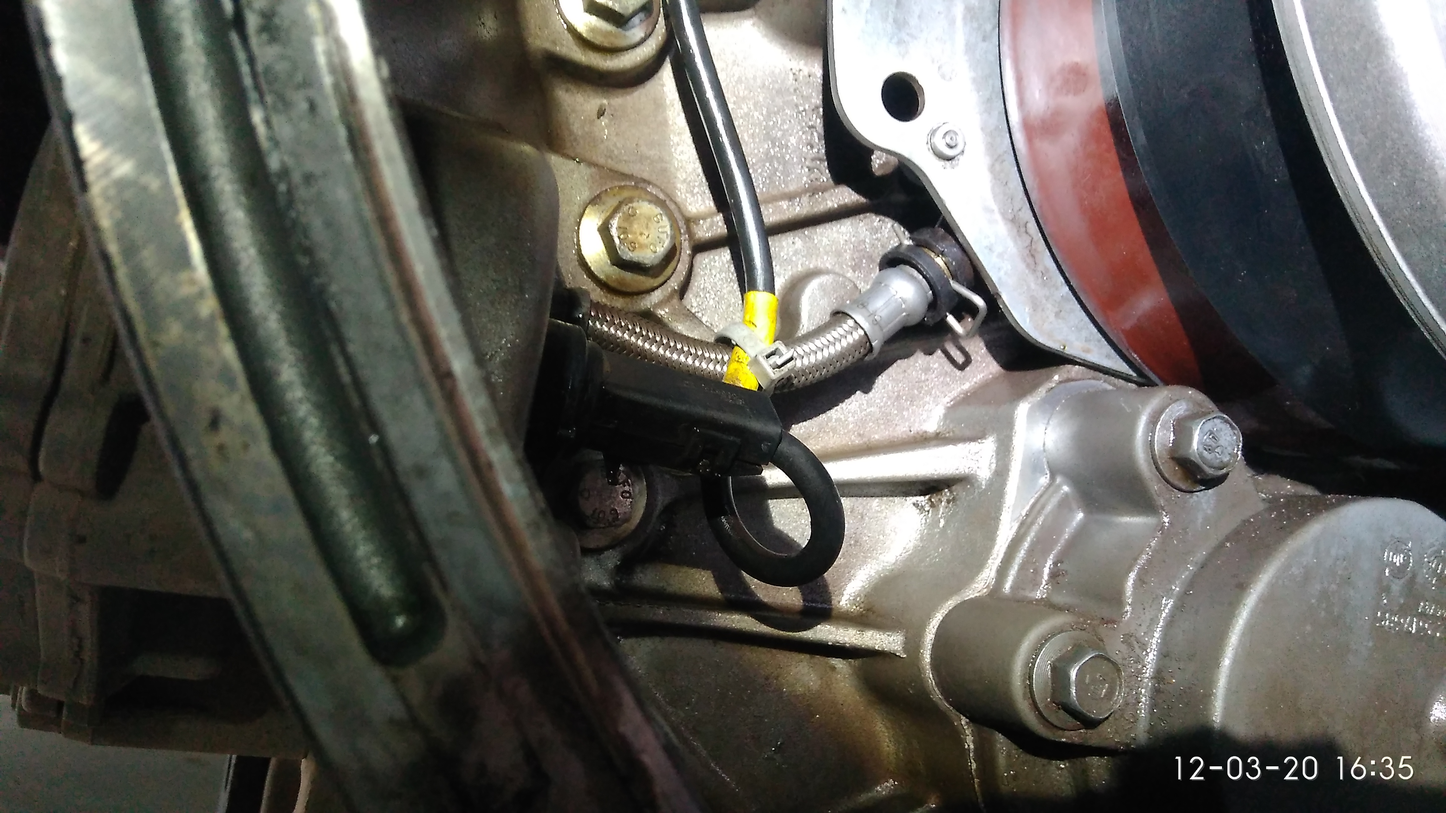
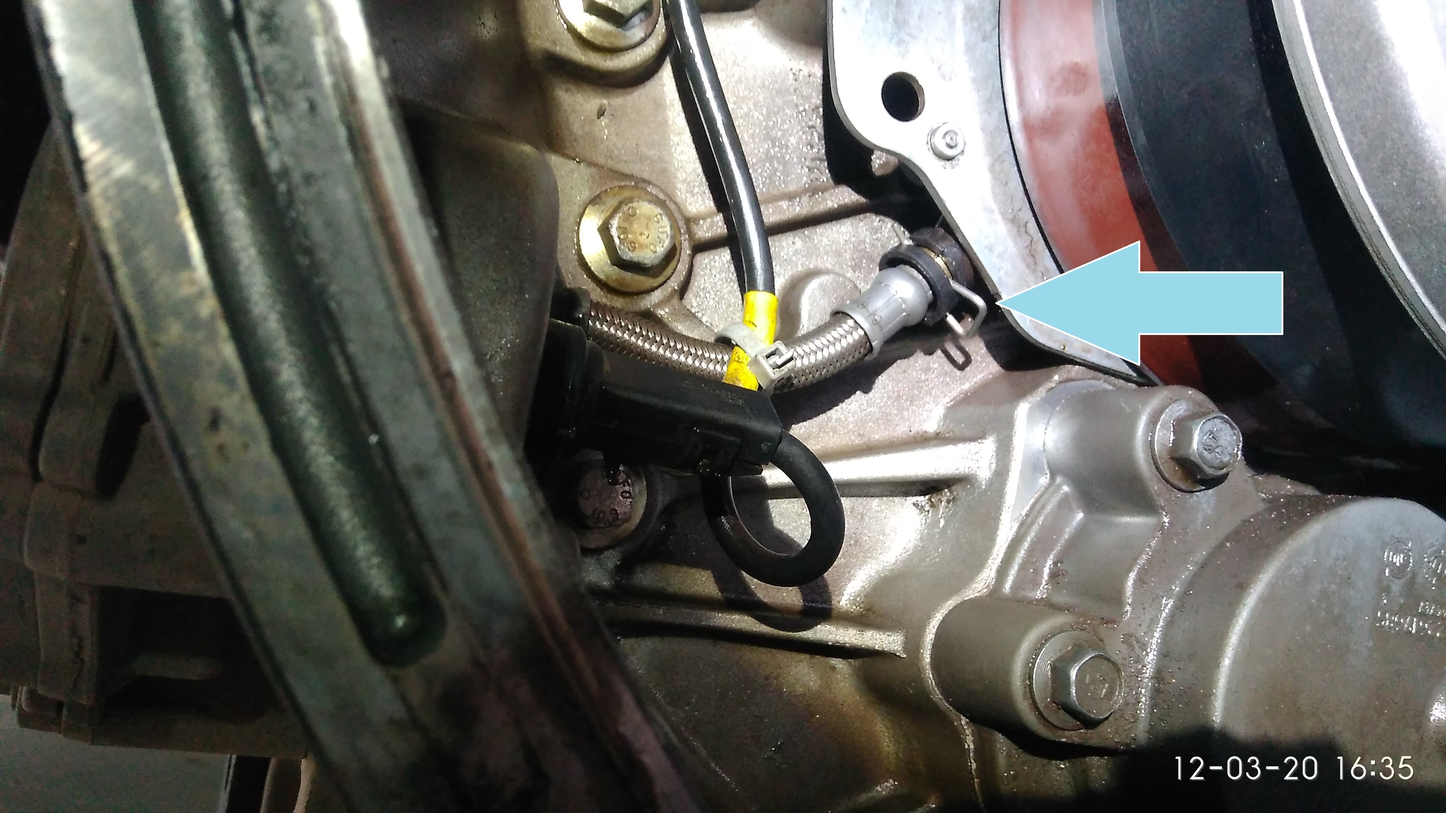
160320

Changed region(s): [[0.6875, 0.3102, 0.9062, 0.4653]]

diff --git a/sealing_ring.html b/sealing_ring.html
@@ -176,36 +176,34 @@
                 <h3>Реклама</h3>
             </div>
             <div class="infobox">
-                <h1>43170-1 Снятие коробки передач I-Shift </h1>
+                <h1>43131-4 Уплотнительное кольцо приводного вала, замена</h1>
                 <p>
-                    <h3>Время выполнения:</h3> 150 (1.5 часа).
+                    <h3>Время выполнения:</h3> 30 (18 мин).
                 </p>
-
-                <h3>Инструмент: </h3>
-                <ol class="rounded">
-                    <li>Ключ торцовый или головка *7 (откручивать хомуты)</li>
-                    <li>Ключ для проворота коленвала</li>
-
-                </ol>
                 <h3>Порядок действий: </h3>
                 <ol class="rounded">
-                    <li>Поднять кабину.</li>
-                    <li>Опорожнить пневматическую систему</li>
-                    <li>Слить антифриз</li>
-                    <li>Снять корпус воздушного фильтра.</li>
-                    <li>Снять карданные валы.</a></li>
-                    <li>Снять поперечину <a href="#01">Смотреть картинку</a></li>
-                    <li> Отсоединить шланг, расположенный на левой стороне рамы.<a href="#02">Смотреть картинку</a></li>
-                    <li>Отсоединить разъем. <a href="#03">Смотреть картинку</a></li>
-                    <li>Снять трубки ОЖ <a href="#04">Смотреть картинку</a></li>
-                    <li>Открутить верхние гайки. <a href="#06">Смотреть картинку</a></li>
-                    <li>Установить на место подъемное устройство. Закрепить коробку передач.<a href="#07">Смотреть картинку</a></li>
-                    <li>Открутить остальные гайки.</li>
-                    <li>Вытяните коробку передач до тех пор, пока не освободится входной вал. Опустите коробку передач.</li>
-                    <li>Если входной вал открутился от коробки передач. Проверить состояние входного вала. 
-                        Если входной вал поврежден. Заменить первичный вал. Заменить стопорное кольцо. Используйте новую деталь.
-                        <a href="#08">Смотреть картинку</a>
-                        </li>
+                    <li>Отсоедините разъем. <a href="#01">Смотреть картинку</a></li>
+                    <li>Снять уплотнительные кольца с подводящей трубки.</li>
+                    <li>Открутите винты. Демонтируйте цилиндр сцепления. <a href="#02">Смотреть картинку</a></li>
+                    <li>	
+                        Закрутите винт в уплотнение.
+                        Используйте винт для листового металла.
+                        Снимите уплотнение.
+                        Используйте монтировку.
+                        <a href="#03">Смотреть картинку</a>
+                    </li>
+                    <li>Проверьте и очистите соприкасающуюся поверхность.
+                        Нанесите консистентную смазку между кромками уплотнения.	
+                        Установите уплотнение. <a href="#04">Смотреть картинку</a>
+                    </li>
+                    <li>	
+                        Проследите за тем, чтобы смазка не попадала на шлицы.
+                        Установите цилиндр сцепления.
+                        Закрутите винты.
+                        Затяните винты с требуемым моментом. 45Нм
+                    </li>
+                    <li>Обратить внимание как устанавливать стопор на разъём 
+                        <a href="#05">Смотреть картинку</a></li>
                     <br>
                 </ol>
                 <h3>Полезные ссылки по теме:</h3>
@@ -213,30 +211,21 @@
 
                 <section class="gallery">
                     <div class="pic">
-                        <img src="img/content/trans/iShift_07.jpg" alt="Поперечина" title="Поперечина" id="01">
+                        <img src="img/content/trans/iShift_15.jpg" alt="Разъём" title="Разъём" id="01">
                     </div> <br>
                     <div class="pic">
-                        <img src="img/content/trans/iShift_08.jpg" alt="Шланг" title="Шланг" id="02">
+                        <img src="img/content/trans/iShift_01.jpg" alt="Цилиндр сцепления" title="Цилиндр сцепления" id="02">
                     </div> <br>
                     <div class="pic">
-                        <img src="img/content/trans/iShift_09.jpg" alt="Разъём" title="Разъём" id="03">
+                        <img src="img/content/trans/iShift_02.jpg" alt="Уплотнение" title="Уплотнение" id="03">
                     </div> <br>
                     <div class="pic">
-                        <img src="img/content/trans/iShift_10.jpg" id="04" alt="Трубка ОЖ" title="Трубка ОЖ">
+                        <img src="img/content/trans/iShift_03.jpg" id="04" alt="Установка уплотнения" title="Установка уплотнения">
                     </div> <br>
                     <div class="pic">
-                        <img src="img/content/trans/iShift_11.jpg" alt="Трубка ОЖ" title="Трубка ОЖ" id="05">
+                        <img src="img/content/trans/iShift_05.jpg" alt="Стопор на разъём" title="Стопор на разъём" id="05">
                     </div> <br>
-                    <div class="pic">
-                        <img src="img/content/trans/iShift_12.jpg" alt="Гайки" title="Гайки"
-                            id="06">
-                    </div> <br>
-                    <div class="pic">
-                        <img src="img/content/trans/iShift_13.jpg" alt="Подкатной домкрат" title="Домкрат" id="07">
-                    </div> <br>
-                    <div class="pic">
-                        <img src="img/content/trans/iShift_14.jpg" alt="Первичный вал" title="Первичный вал" id="07">
-                    </div> <br>
+                     <br>
                 </section>
                 <a href="sealing_ring.html">Уплотнительное кольцо приводного вала, замена.</a>
             </div>
